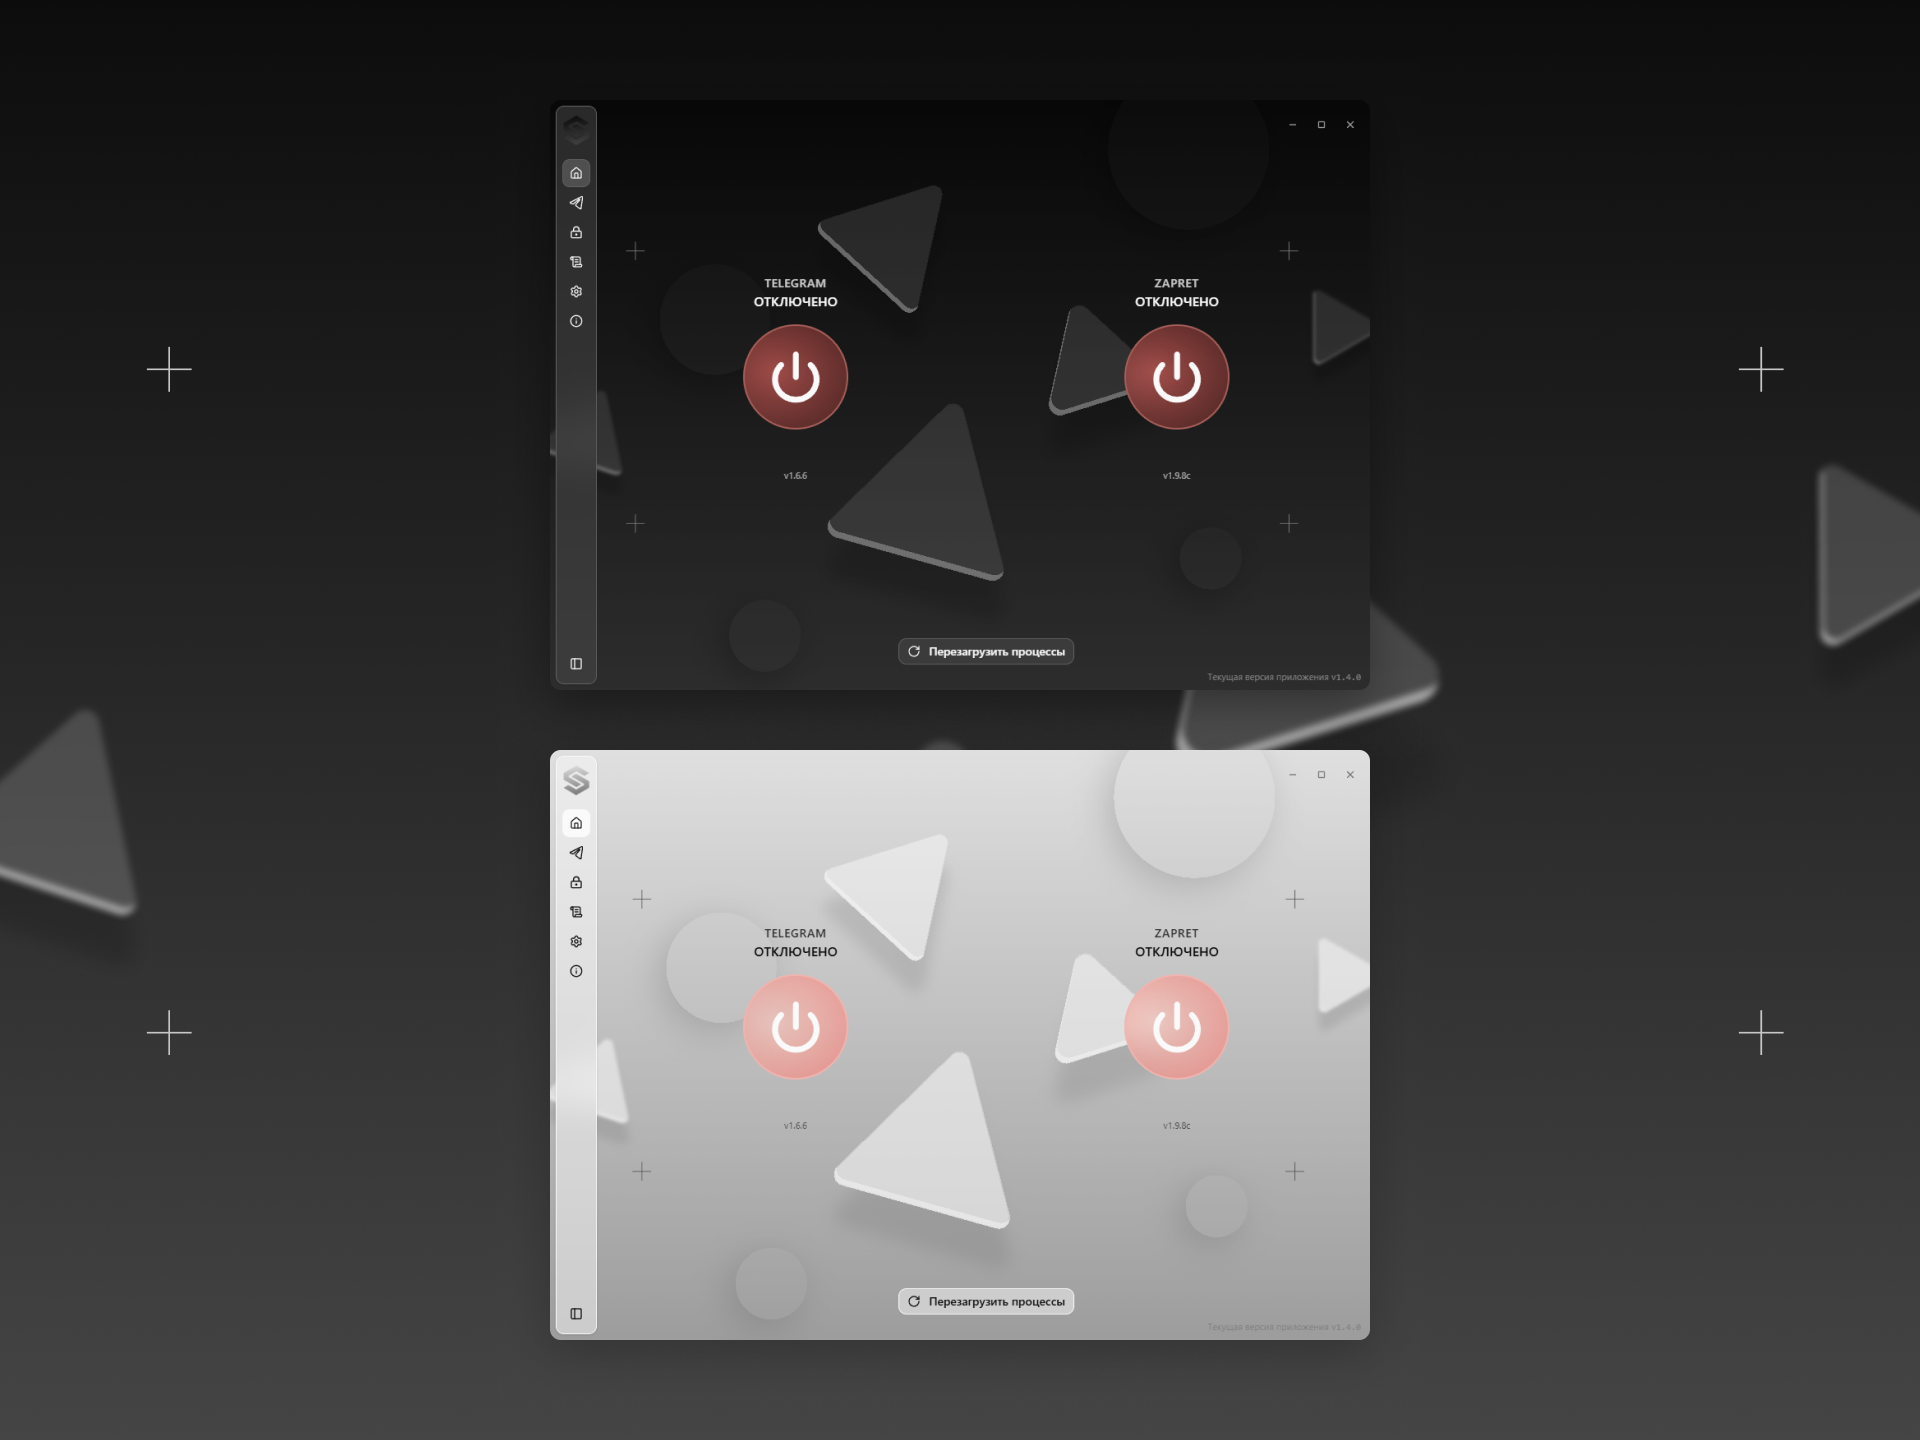
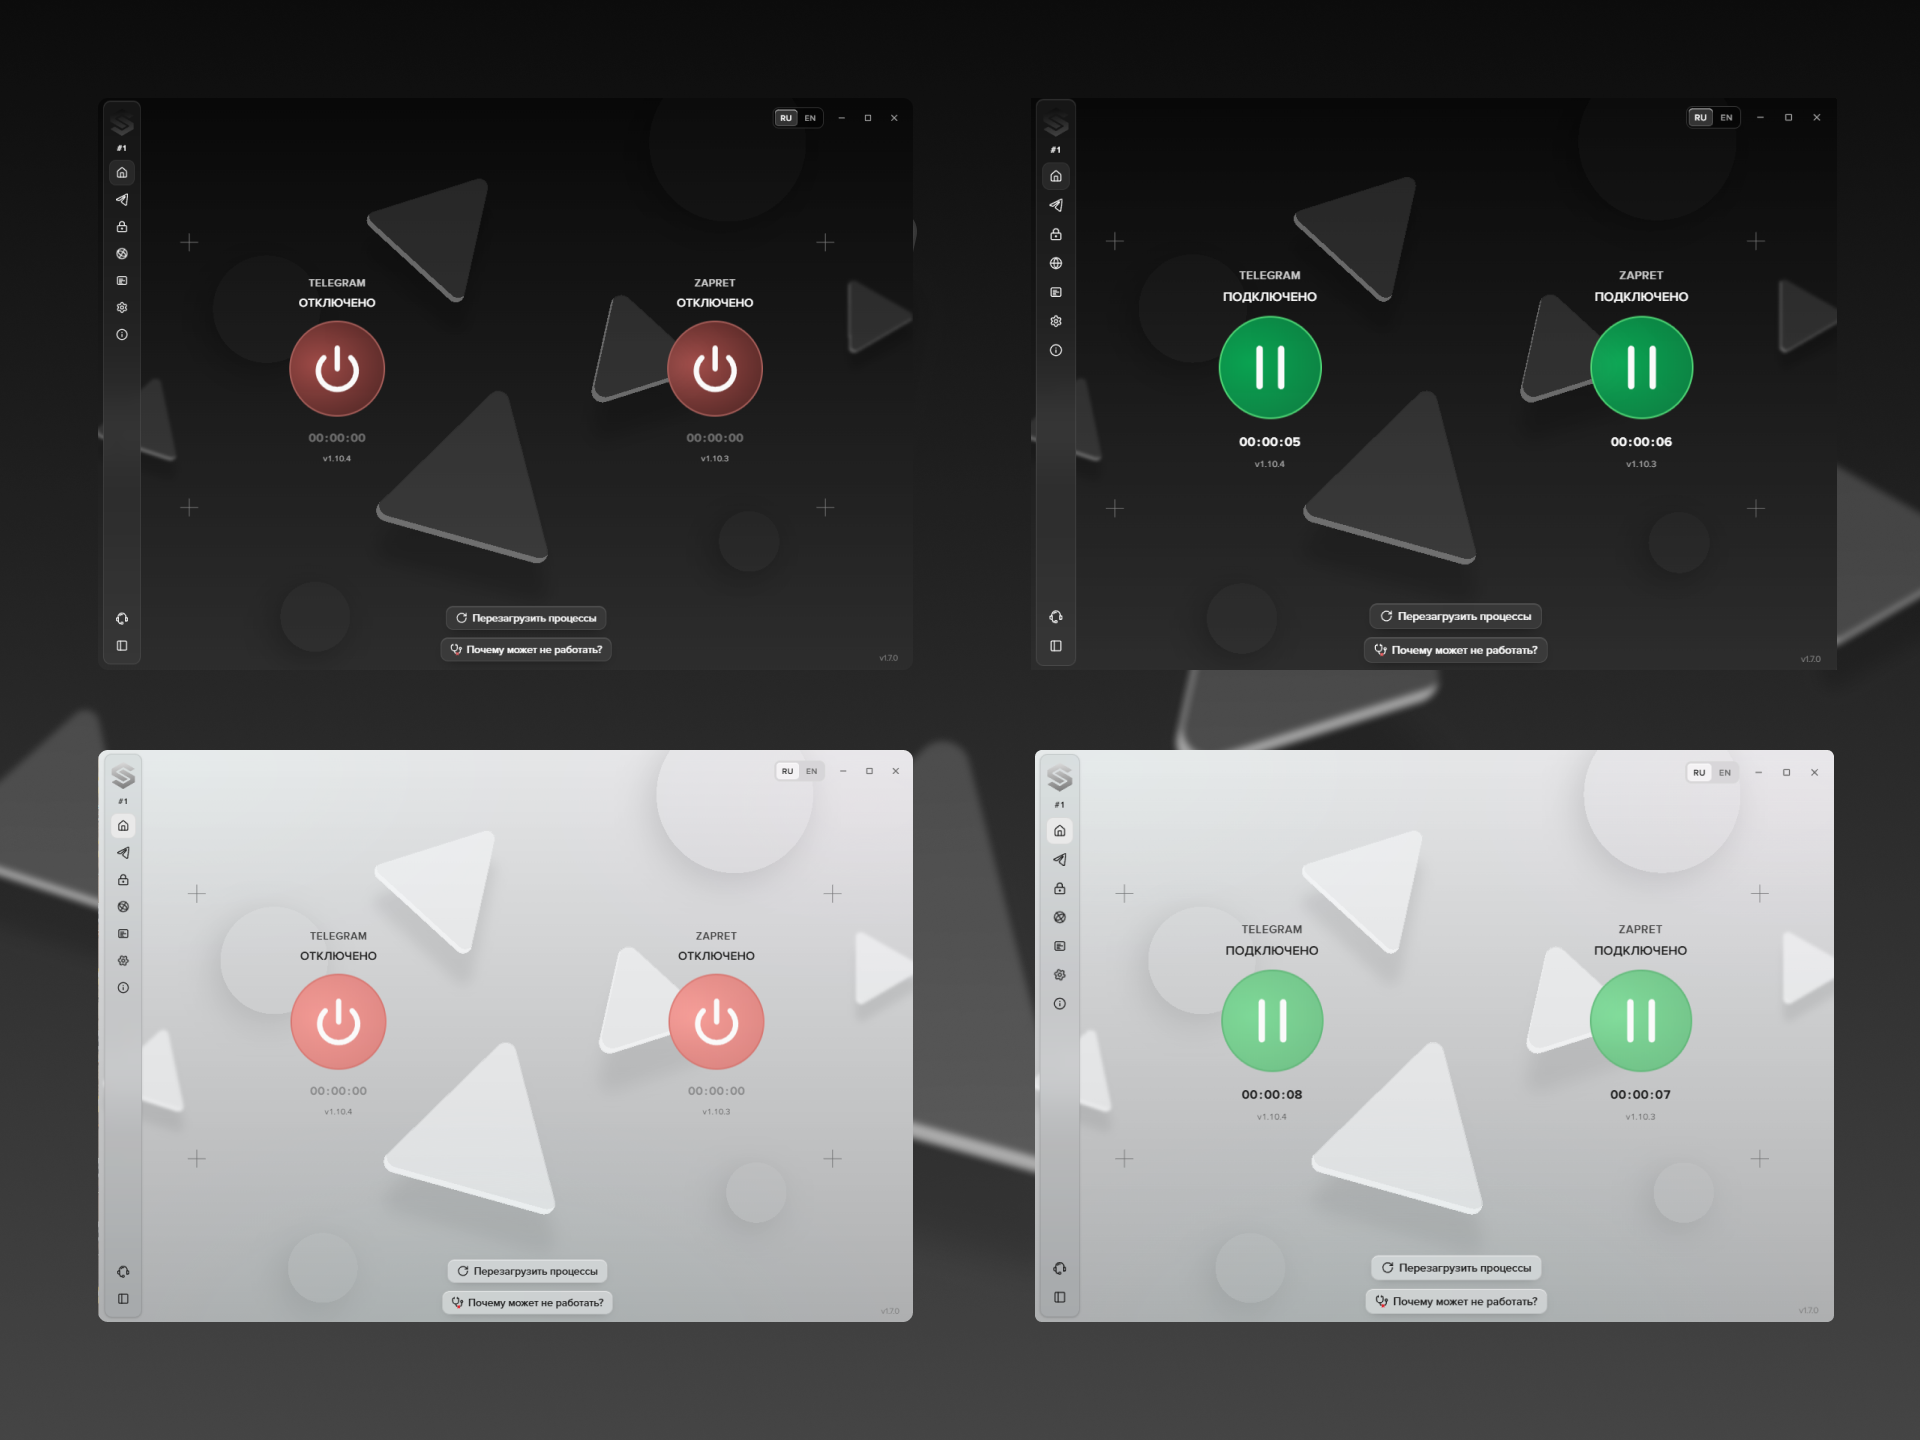
Add files via upload

diff --git a/README.md b/README.md
@@ -69,7 +69,7 @@
 Каждый компонент можно включить отдельно. Slipgate управляет их запуском и остановкой, показывает состояние, сохраняет настройки и позволяет обновлять компоненты из интерфейса.
 
 <p align="center">
-  <img src="./docs/readme/preview.png" alt="Slipgate: светлая и тёмная темы с включёнными и выключенными Telegram и Zapret" width="100%" />
+  <img src="./docs/preview.png" alt="Slipgate: светлая и тёмная темы с включёнными и выключенными Telegram и Zapret" width="100%" />
 </p>
 
 | Возможность                | Что даёт                                                                                       |
